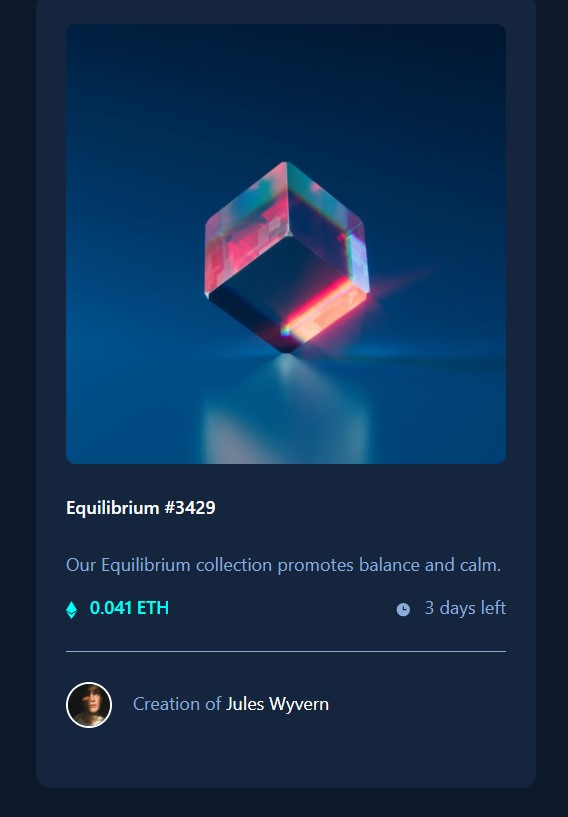
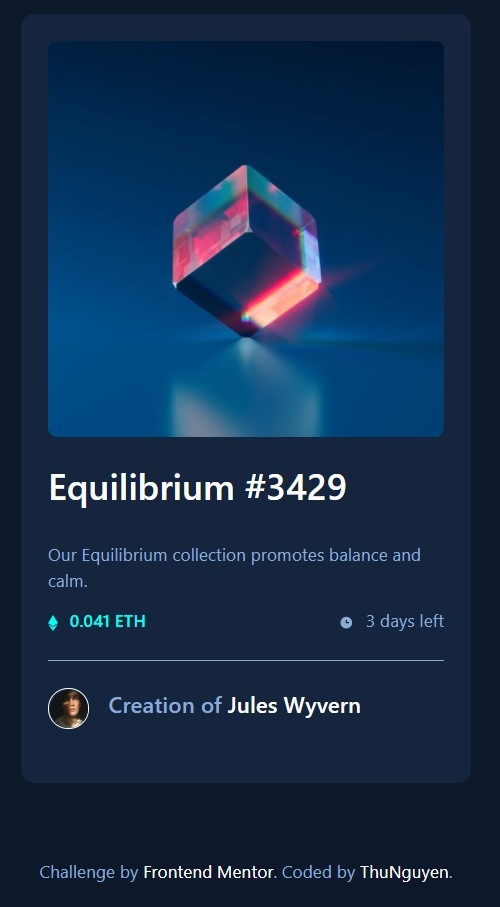
update again

diff --git a/index.html b/index.html
@@ -1,51 +1,80 @@
 <!DOCTYPE html>
 <html lang="en">
-<head>
-  <meta charset="UTF-8">
-  <meta name="viewport" content="width=device-width, initial-scale=1.0"> <!-- displays site properly based on user's device -->
+  <head>
+    <meta charset="UTF-8" />
+    <meta name="viewport" content="width=device-width, initial-scale=1.0" />
+    <!-- displays site properly based on user's device -->
 
-  <link rel="icon" type="image/png" sizes="32x32" href="./images/favicon-32x32.png">
-  
-  <title>Frontend Mentor | NFT preview card component</title>
-  <link rel="preconnect" href="https://fonts.googleapis.com">
-  <link rel="preconnect" href="https://fonts.gstatic.com" crossorigin>
-<link rel="preconnect" href="https://fonts.googleapis.com">
-<link rel="preconnect" href="https://fonts.gstatic.com" crossorigin>
-<link href="https://fonts.googleapis.com/css2?family=Outfit:wght@300;400;600&display=swap" rel="stylesheet">
+    <link
+      rel="icon"
+      type="image/png"
+      sizes="32x32"
+      href="./images/favicon-32x32.png"
+    />
+
+    <title>Frontend Mentor | NFT preview card component</title>
+    <link rel="preconnect" href="https://fonts.googleapis.com" />
+    <link rel="preconnect" href="https://fonts.gstatic.com" crossorigin />
+    <link rel="preconnect" href="https://fonts.googleapis.com" />
+    <link rel="preconnect" href="https://fonts.gstatic.com" crossorigin />
+    <link
+      href="https://fonts.googleapis.com/css2?family=Outfit:wght@300;400;600&display=swap"
+      rel="stylesheet"
+    />
     <!-- Feel free to remove these styles or customise in your own stylesheet 👍 -->
-    <link href="https://cdn.jsdelivr.net/npm/bootstrap@5.0.2/dist/css/bootstrap.min.css" rel="stylesheet" integrity="sha384-EVSTQN3/azprG1Anm3QDgpJLIm9Nao0Yz1ztcQTwFspd3yD65VohhpuuCOmLASjC" crossorigin="anonymous">
-    <link rel="stylesheet" href="style.css">
-</head>
-<body>
-  <div class="box">
-      <div class="box__wrapper">
-        <img src="/images/image-equilibrium.jpg" alt="Equilibrium" class="w-100 box__img">
-        <div class="box__wrapper__hover">
-          <img src="/images/icon-view.svg" alt="" class="box__img__hover">
-        </div>
-      </div>
-    <div class="box__body">
-      <div class="body__title">
-        <a href="#">Equilibrium #3429</a>
-      </div>
-      <div class="body__desc">
-        <p>Our Equilibrium collection promotes balance and calm.</p>
-      </div>
-      <div class="body__content">
-        <div class="body__content--left">
-          <img src="/images/icon-ethereum.svg" alt="Ethereum">
-          <span class="ms-2">0.041 ETH</span>
-        </div>
-        <div class="body__content--right">
-          <img src="/images/icon-clock.svg" alt="Clock">
-          <span class="ms-2">3 days left</span>
-        </div>
+    <link
+      href="https://cdn.jsdelivr.net/npm/bootstrap@5.0.2/dist/css/bootstrap.min.css"
+      rel="stylesheet"
+      integrity="sha384-EVSTQN3/azprG1Anm3QDgpJLIm9Nao0Yz1ztcQTwFspd3yD65VohhpuuCOmLASjC"
+      crossorigin="anonymous"
+    />
+    <link rel="stylesheet" href="style.css" />
+  </head>
+  <body>
+    <div class="main">
+      <div class="box">
+        <section class="box__wrapper">
+          <img
+            src="/images/image-equilibrium.jpg"
+            alt="Equilibrium"
+            class="w-100 box__img"
+          />
+          <div class="box__wrapper__hover">
+            <img src="/images/icon-view.svg" alt="" class="box__img__hover" />
+          </div>
+        </section>
+        <section class="box__body">
+          <div class="body__title">
+            <h1><a href="#">Equilibrium #3429</a></h1>
+          </div>
+          <div class="body__desc">
+            <p>Our Equilibrium collection promotes balance and calm.</p>
+          </div>
+          <div class="body__content">
+            <div class="body__content--left">
+              <img src="/images/icon-ethereum.svg" alt="Ethereum" />
+              <span class="ms-2">0.041 ETH</span>
+            </div>
+            <div class="body__content--right">
+              <img src="/images/icon-clock.svg" alt="Clock" />
+              <span class="ms-2">3 days left</span>
+            </div>
+          </div>
+        </section>
+        <section class="box__footer">
+          <img src="/images/image-avatar.png" alt="avatar" />
+          <h2><span class="ms-3">Creation of <a href="#">Jules Wyvern</a></span></h2>
+        </section>
       </div>
     </div>
-    <div class="box__footer">
-      <img src="/images/image-avatar.png" alt="avatar">
-      <span class="ms-3">Creation of <a href="#">Jules Wyvern</a></span>
-    </div>
-  </div>
-</body>
+    <footer class="attribution">
+      Challenge by
+      <a href="https://www.frontendmentor.io?ref=challenge" target="_blank"
+        >Frontend Mentor</a
+      >. Coded by
+      <a href="https://www.frontendmentor.io/profile/thunguyen120296"
+        >ThuNguyen</a
+      >.
+    </footer>
+  </body>
 </html>

diff --git a/style.css b/style.css
@@ -1,21 +1,26 @@
-*{
-    box-sizing: border-box;
-    margin: 0;
-    padding: 0;
-    --soft-blue: hsl(215, 51%, 70%);
+:root{
+     --soft-blue: hsl(215, 51%, 70%);
     --cyan: rgb(0, 255, 247);
     --main-bg: hsl(217, 54%, 11%);
     --card-bg: hsl(216, 50%, 16%);
     --white: hsl(0, 0%, 100%);
 }
+*{
+    box-sizing: border-box;
+    margin: 0;
+    padding: 0;
+}
 
 body{
-    font-size: 18px;
     background-color: var(--main-bg);
     color: var(--soft-blue);
+        font-size: 1.2em; 
+}
+.main{
     display: flex;
     justify-content: center;
     align-items: center;
+    height: 100vh;
 }
 
 a{
@@ -81,17 +86,27 @@ a:hover{
     border-top: 1px solid var(--soft-blue);
     padding: 30px 0;
 }
+.box__footer h2{
+    font-size: 1.3em;
+    display: inline-block;
+}
 .box__footer img{
     border: 2px solid var(--white);
     border-radius: 50%;
     width: 46px;
 }
+/* footer */
+.attribution{
+    text-align: center;
+    padding-bottom: 2em;
+}
+
 
 @media screen and (max-width: 375px) {
     .box{
         max-width: 320px;
     }
-    .box__footer{
-        font-size: 16px;
+    .box__footer h2{
+        font-size: 0.9em;
     }
 }
